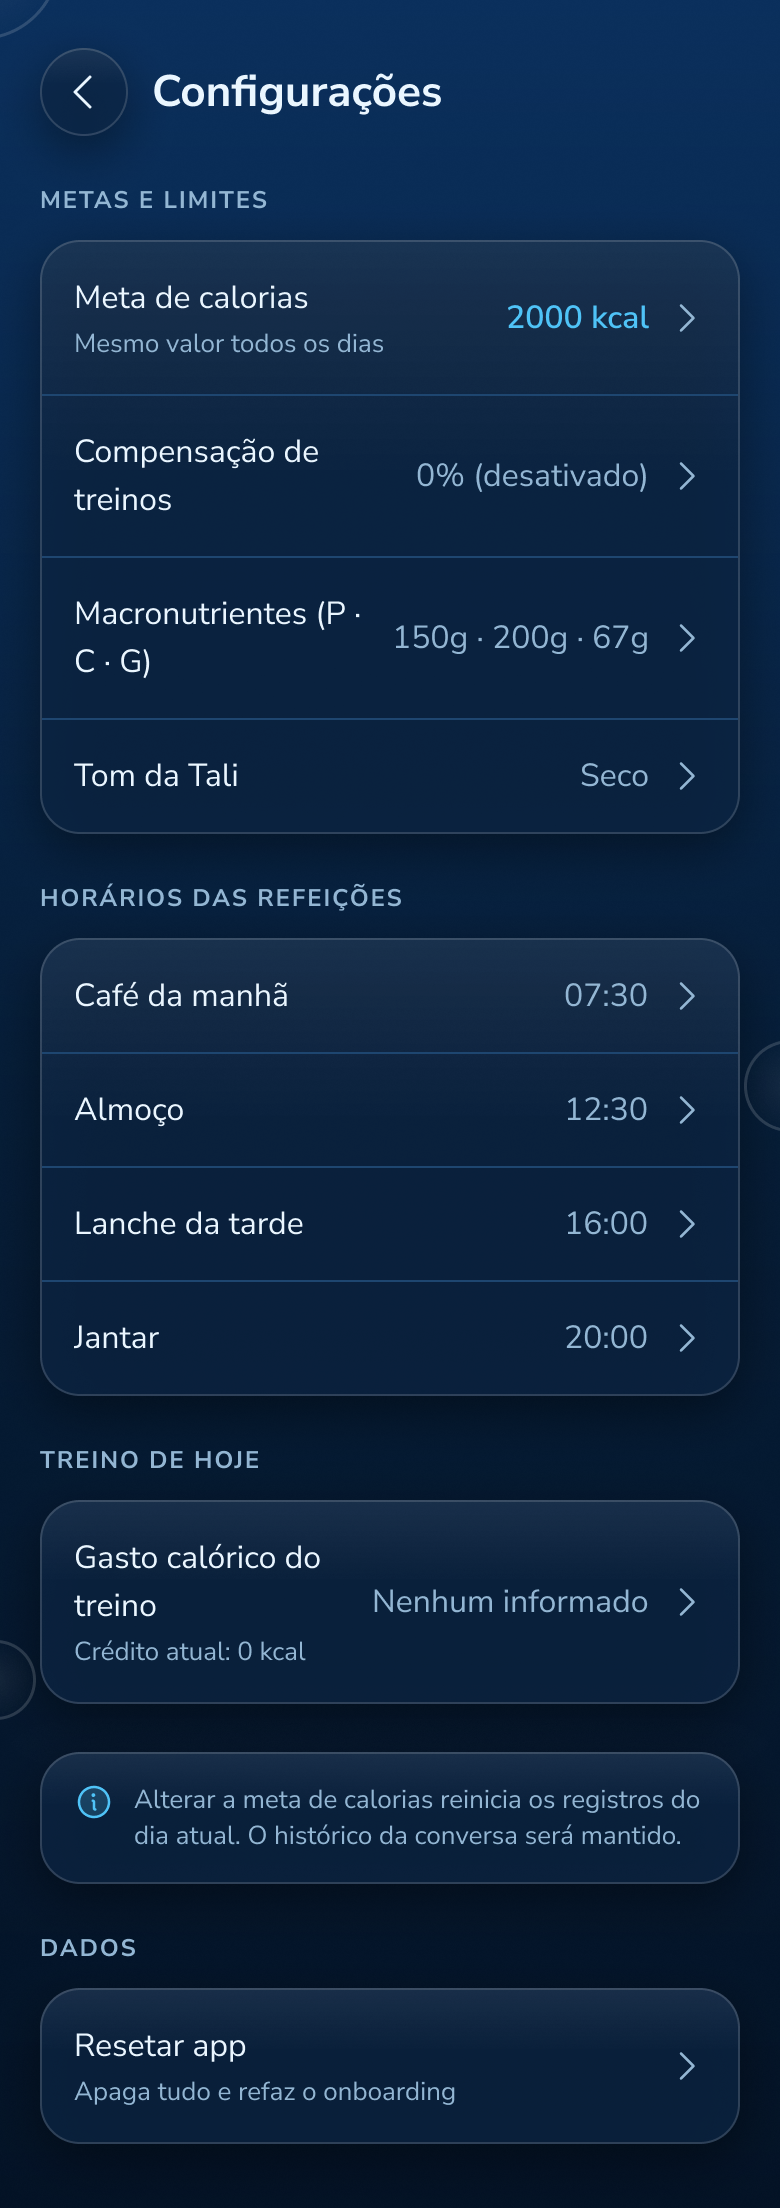
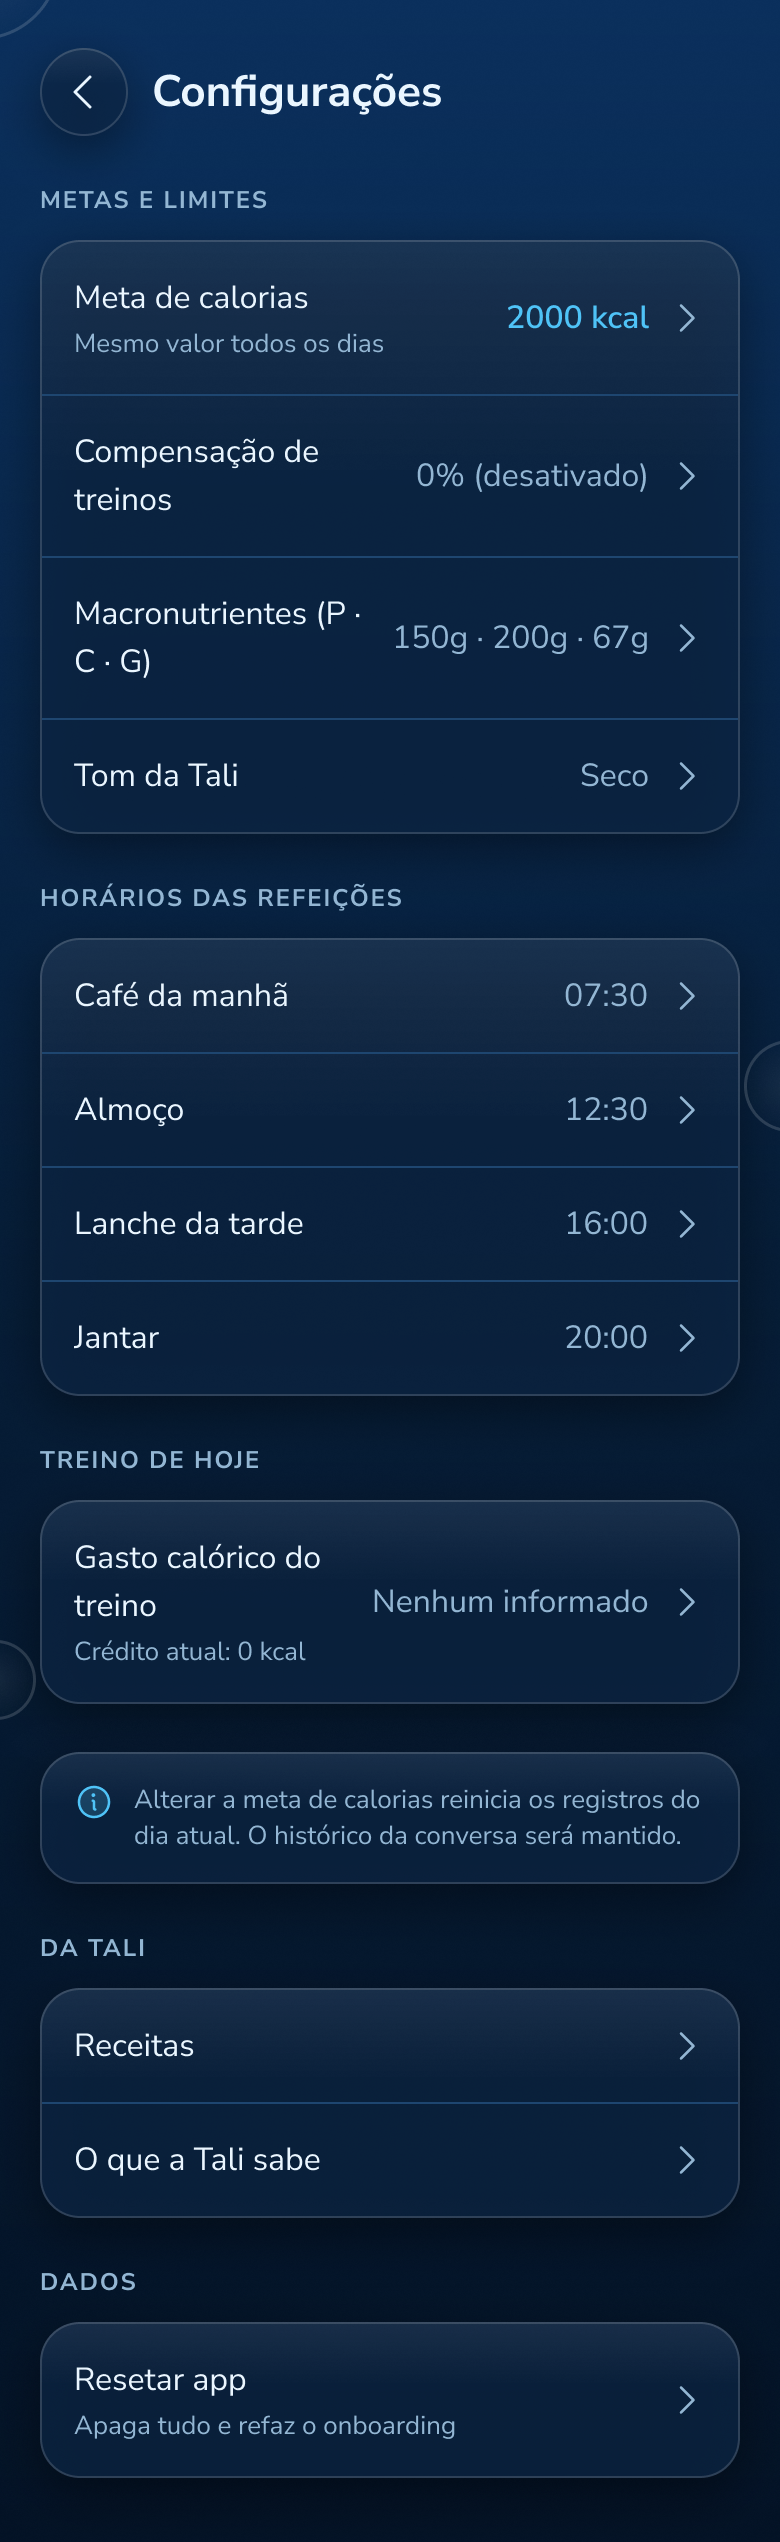
docs(design): D24 owner OK, memL and cfg golds exported, plan closed

diff --git a/docs/produto/README.md b/docs/produto/README.md
@@ -88,6 +88,6 @@ This context has no `plans/`. Deliveries belong to [Android](../android/README.m
 
 Meal updates: D9 and A47 (history: [`completed/`](../design/plans/completed/), [`completed/`](../android/plans/completed/)).
 
-Chat after the brainstorm of 07/10/2026 (`benchmark/MELHORIAS_CHAT_07_10_2026.md` § 5, benchmark `benchmark/RESULTADOS_08_10_2026.md`), in execution order: [S33](../server/plans/s33-chat-context-effort-low.md) → [S34](../server/plans/s34-protein-boost-hybrid.md) → [A64](../android/plans/a64-chat-context-fields-day-balance.md) → [CP10](../content-policy/plans/cp10-workout-in-scope-and-skip-boundary.md) → [S35](../server/plans/s35-workout-via-chat.md) → [A65](../android/plans/a65-workout-via-chat.md) → [S36](../server/plans/s36-typed-actions.md) → [A66](../android/plans/a66-typed-actions-batch.md) → [S37](../server/plans/s37-plan-options-and-discovery.md) → [A67](../android/plans/a67-plan-options-and-discovery.md) → D23 ([history](../design/plans/completed/)) → [S38](../server/plans/s38-saved-recipes.md) → [A68](../android/plans/a68-saved-recipes.md) → [D24](../design/plans/pending_manual_validation/d24-release-2-visible-memory.md) → [A69](../android/plans/a69-visible-memory.md) (ADR-049 to ADR-055).
+Chat after the brainstorm of 07/10/2026 (`benchmark/MELHORIAS_CHAT_07_10_2026.md` § 5, benchmark `benchmark/RESULTADOS_08_10_2026.md`), in execution order: [S33](../server/plans/s33-chat-context-effort-low.md) → [S34](../server/plans/s34-protein-boost-hybrid.md) → [A64](../android/plans/a64-chat-context-fields-day-balance.md) → [CP10](../content-policy/plans/cp10-workout-in-scope-and-skip-boundary.md) → [S35](../server/plans/s35-workout-via-chat.md) → [A65](../android/plans/a65-workout-via-chat.md) → [S36](../server/plans/s36-typed-actions.md) → [A66](../android/plans/a66-typed-actions-batch.md) → [S37](../server/plans/s37-plan-options-and-discovery.md) → [A67](../android/plans/a67-plan-options-and-discovery.md) → D23 ([history](../design/plans/completed/)) → [S38](../server/plans/s38-saved-recipes.md) → [A68](../android/plans/a68-saved-recipes.md) → D24 ([history](../design/plans/completed/)) → [A69](../android/plans/a69-visible-memory.md) (ADR-049 to ADR-055).
 
 Protein-first plan, tone, formatting, planned meal and skips: S24 ([`completed/`](../server/plans/completed/), ADR-043); S30 ([`completed/`](../server/plans/completed/), server, ADR-044/045/046) and [A60](../android/plans/pending_manual_validation/a60-tone-formatting-planned-skips.md) (app, ADR-039/044/045/046/047); its part E, the skips, by [A59](../android/plans/pending_manual_validation/a59-skips-with-other-actions.md); the auto-record defect A54 ([`completed/`](../android/plans/completed/)). Deferred by owner decision: goal weight, [A56](../android/plans/out_of_scope/a56-goal-weight.md).

diff --git a/docs/design/plans/completed/d24-release-2-visible-memory.md b/docs/design/plans/completed/d24-release-2-visible-memory.md
@@ -1,10 +1,10 @@
 # Plan — D24 Release 2: "O que a Tali sabe"
 
-- Status: Pendente aprovação manual (Figma review gate, 08/10/2026)
+- Status: Concluído (08/10/2026)
 - Date: 08/10/2026
 - Owning context: `design`
 - Affected code: none in `apps/` or `server/`. Figma `Design` → `Release 2` → section "Memória", new components in `Componentes`. Repository: `docs/qa/figma/{dark,light}/memL.png`, the changed `cfg` (entry row), and the node ids in `tools/export-figma.mjs`.
-- Prerequisites: D23 `Concluído` ([history](../completed/)) (same release section order); [ADR-053](../../../produto/adrs/ADR-053-visible-memory-screen.md) accepted with A69.
+- Prerequisites: D23 `Concluído` ([history](./)) (same release section order); [ADR-053](../../../produto/adrs/ADR-053-visible-memory-screen.md) accepted with A69.
 - Figma MCP budget: ≤ 40 calls (at most 120 a day, ADR-031 § 6).
 
 Authorization, lifecycle, cancellation and deferral: `docs/sdd/README.md`. Approval: `Aprovo o plano docs/design/plans/d24-release-2-visible-memory.md. Implemente o plano aprovado.`
@@ -96,3 +96,18 @@ Outside this plan, listed for the owner: the delete confirmation (an existing `D
 3. Review images from `node tools/export-figma.mjs --only <node ids> --dry-run` (no MCP calls), one per frame, sent to the owner.
 
 Figma MCP budget: 6 of 40 calls (whoami, 1 read, 2 writes, 1 failed write retried, 1 read-back); the Figma skills were already loaded in this session by D23.
+
+### Owner review
+
+**OK (08/10/2026)** on the first round, with no fixes ("Está perfeito, pode exportar e concluir o plano"), including the correction state inside `memL`.
+
+### Export (08/10/2026)
+
+- `tools/export-figma.mjs`: `memL` added (Light `198:385`, Dark `198:867`); `cfg` now points to the `Release 2` frames (Light `198:740`, Dark `198:988`).
+- `node tools/export-figma.mjs --only cfg,memL`: `memL` 780 × 2340 (new, both themes); `cfg` 780 × 2208 → 780 × 2542 (both themes).
+- Inventory: `memL.png` added to [docs/qa/README.md](../../../qa/README.md); the golds-per-flow table of the [plans README](../README.md) gains the visible-memory row.
+- `node tools/check-figma.mjs`: 106 golds verified (53 dark + 53 light). `node tools/check-docs.mjs` passes.
+- Gold check of the current app (no `apps/` change; `GoldTest.cfg*`, `--rerun`): all eight pass. `cfg` blurred 0.24 % Dark and 0.11 % Light (the test draws the frame at its 1104 dp qualifier, above the new block); `cfgR`, `cfgS`, `cfgT` unchanged.
+- **Hand-over:** [A68](../../../android/plans/a68-saved-recipes.md) and [A69](../../../android/plans/a69-visible-memory.md) draw the `DA TALI` block (the first of them adds the block with its own row) and move the `cfg` qualifier to 1271 dp; A69 draws `memL`.
+
+Figma MCP budget: 6 of 40 calls in total.

diff --git a/docs/design/plans/completed/d23-release-2-recipes.md b/docs/design/plans/completed/d23-release-2-recipes.md
@@ -126,6 +126,6 @@ Figma MCP budget: 15 of 60 calls (whoami, 3 skill reads, 4 reads, 5 writes, 2 fa
 - Inventory: `rcpL.png · rcpD.png` added to [docs/qa/README.md](../../../qa/README.md); the golds-per-flow table of the [plans README](../README.md) gains the `Release 2` recipes row.
 - `node tools/check-figma.mjs`: 104 golds verified (52 dark + 52 light). `node tools/check-docs.mjs` passes.
 - Gold check of the current app (no `apps/` change; `GoldTest.chatRK*`, run with `--rerun`): the whole frame is report-only (blurred 3.30 % Dark, 2.67 % Light); the header region passes (0.22 %, 0.29 %); the bottom region fails (4.50 % Dark, 3.08 % Light), by design: the app does not draw **Salvar receita** yet.
-- **Hand-over to [A68](../../../android/plans/a68-saved-recipes.md):** the action under a cooking plan, the list and detail against `rcpL` and `rcpD`, and the `chatRK` qualifier at 1125 dp. Until A68, `GoldTest.chatRK_dark` and `chatRK_light` fail on their bottom region; a client plan that runs before A68 needs a temporary exception there (owner decision). The Config entry row is drawn by [D24](../pending_manual_validation/d24-release-2-visible-memory.md).
+- **Hand-over to [A68](../../../android/plans/a68-saved-recipes.md):** the action under a cooking plan, the list and detail against `rcpL` and `rcpD`, and the `chatRK` qualifier at 1125 dp. Until A68, `GoldTest.chatRK_dark` and `chatRK_light` fail on their bottom region; a client plan that runs before A68 needs a temporary exception there (owner decision). The Config entry row is drawn by [D24](d24-release-2-visible-memory.md).
 
 Figma MCP budget: 15 of 60 calls in total (no call after the review: the export uses the REST API).

diff --git a/docs/design/plans/README.md b/docs/design/plans/README.md
@@ -27,6 +27,7 @@ Golds per flow (ids unchanged, inventory in [docs/qa/README.md](../../qa/README.
 | Chat records and memory | `chatF`, `chatA`, `chatG`, `chatU`, `chatD`, `chatR`, `chatM`, `chatS`, `chatRK`, `chatRB`, `chatRL` |
 | Config and push | `cfg`, `cfgS`, `wipe`, `cfgR`, `cfgT`, `push` |
 | Recipes (`Release 2`) | `rcpL`, `rcpD` |
+| Visible memory (`Release 2`) | `memL`; `cfg` redrawn on `Release 2` |
 
 ## Figma review gate
 
@@ -156,7 +157,7 @@ Behavior: [ADR-052](../../produto/adrs/ADR-052-saved-recipes.md), [ADR-053](../.
 |---|---|---|
 | Design | D23 — Recipes (`rcpL`, `rcpD`, `chatRK`), delivered ([history](completed/)) | D22, ADR-052 accepted (S38) |
 | Client | [A68](../../android/plans/a68-saved-recipes.md) — saved recipes | D23, S38 on dev, A67 |
-| Design | [D24](pending_manual_validation/d24-release-2-visible-memory.md) — "O que a Tali sabe" (`memL`, `cfg`) | D23, ADR-053 accepted (A69) |
+| Design | D24 — "O que a Tali sabe" (`memL`, `cfg`), delivered ([history](completed/)) | D23, ADR-053 accepted (A69) |
 | Client | [A69](../../android/plans/a69-visible-memory.md) — memory screen | D24, A68 |
 | Design | [D25](d25-release-2-plan-options.md) — plan option control (`chatO`) | D24, ADR-051 accepted (S37) |
 | Client | [A67](../../android/plans/a67-plan-options-and-discovery.md) — options and discovery | D25, S37 on dev, A66 |

diff --git a/docs/android/plans/a69-visible-memory.md b/docs/android/plans/a69-visible-memory.md
@@ -4,7 +4,7 @@
 - Date: 08/10/2026
 - Owning context: `android`
 - Affected code: `apps/android/` only: Config entry and screen (`memL`), fact list with origin, delete and correct, tombstones for deleted facts (Room v15), removal of the dev tool A23, tests, captures.
-- Prerequisites: [D24](../../design/plans/pending_manual_validation/d24-release-2-visible-memory.md) `Concluído`; [A68](a68-saved-recipes.md) delivered (Room version order).
+- Prerequisites: [D24](../../design/plans/completed/d24-release-2-visible-memory.md) `Concluído`; [A68](a68-saved-recipes.md) delivered (Room version order).
 - Related documentation: [ADR-053](../../produto/adrs/ADR-053-visible-memory-screen.md), ADR-019/023/029, [memoria-push](../../produto/specifications/memoria-push.md), [Room](../specifications/room-v2.md), [gold inventory](../../qa/README.md).
 
 Authorization and delivery follow [SDD](../../sdd/README.md). Approval: `Aprovo o plano docs/android/plans/a69-visible-memory.md. Implemente o plano aprovado.`

diff --git a/docs/design/plans/d25-release-2-plan-options.md b/docs/design/plans/d25-release-2-plan-options.md
@@ -4,7 +4,7 @@
 - Date: 08/10/2026
 - Owning context: `design`
 - Affected code: none in `apps/` or `server/`. Figma `Design` → `Release 2` → section "Opções", new component in `Componentes`. Repository: `docs/qa/figma/{dark,light}/chatO.png` and the node ids in `tools/export-figma.mjs`.
-- Prerequisites: [D24](pending_manual_validation/d24-release-2-visible-memory.md) `Concluído` (same release section order); [ADR-051](../../produto/adrs/ADR-051-plan-option-identity-and-chat-discovery.md) accepted with S37.
+- Prerequisites: D24 `Concluído` ([history](completed/)) (same release section order); [ADR-051](../../produto/adrs/ADR-051-plan-option-identity-and-chat-discovery.md) accepted with S37.
 - Figma MCP budget: ≤ 40 calls (at most 120 a day, ADR-031 § 6).
 
 Authorization, lifecycle, cancellation and deferral: `docs/sdd/README.md`. Approval: `Aprovo o plano docs/design/plans/d25-release-2-plan-options.md. Implemente o plano aprovado.`

diff --git a/docs/qa/README.md b/docs/qa/README.md
@@ -26,7 +26,7 @@ chatF.png · chatG.png · chatA.png · chatR.png · chatM.png · chatS.png · ch
 chatRK.png · chatRB.png · chatRL.png · chatSK.png · chatSD.png
 chatI.png · chatIC.png · chatTI.png
 cfg.png · cfgS.png · wipe.png · cfgR.png · cfgT.png · push.png
-rcpL.png · rcpD.png
+rcpL.png · rcpD.png · memL.png
 land.png · landM.png · priv.png
 ```
 
